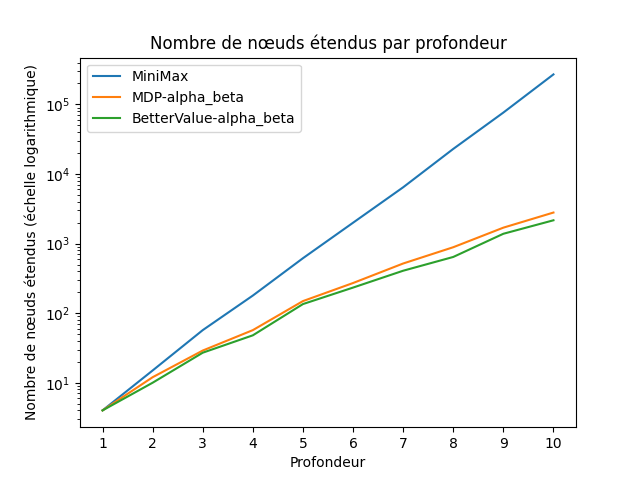
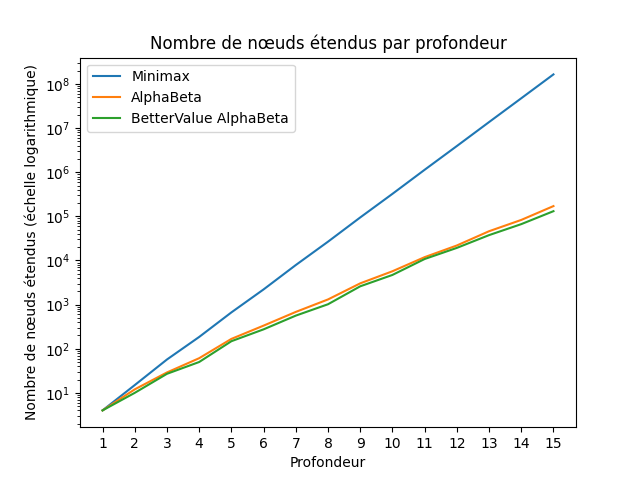
new results

diff --git a/src/generateGraphics.py b/src/generateGraphics.py
@@ -17,14 +17,14 @@ GENERATE_DATA = True
 DATA_FILENAME = 'temp.csv'
 # DATA_FILENAME = 'temp2.csv'
 
-DEPTH_MAX = 10
+DEPTH_MAX = 15
 # DEPTH_MAX = 6
 
 GENERATE_GRAPHICS = True
 #GENERATE_GRAPHICS = False
 
-GENERATE_IMAGES = True
-#GENERATE_IMAGES = False
+# GENERATE_IMAGES = True
+GENERATE_IMAGES = False
 IMAGE_FILENAME = 'monde{i}.png'
 
 W1_FILENAME = 'graph1'
